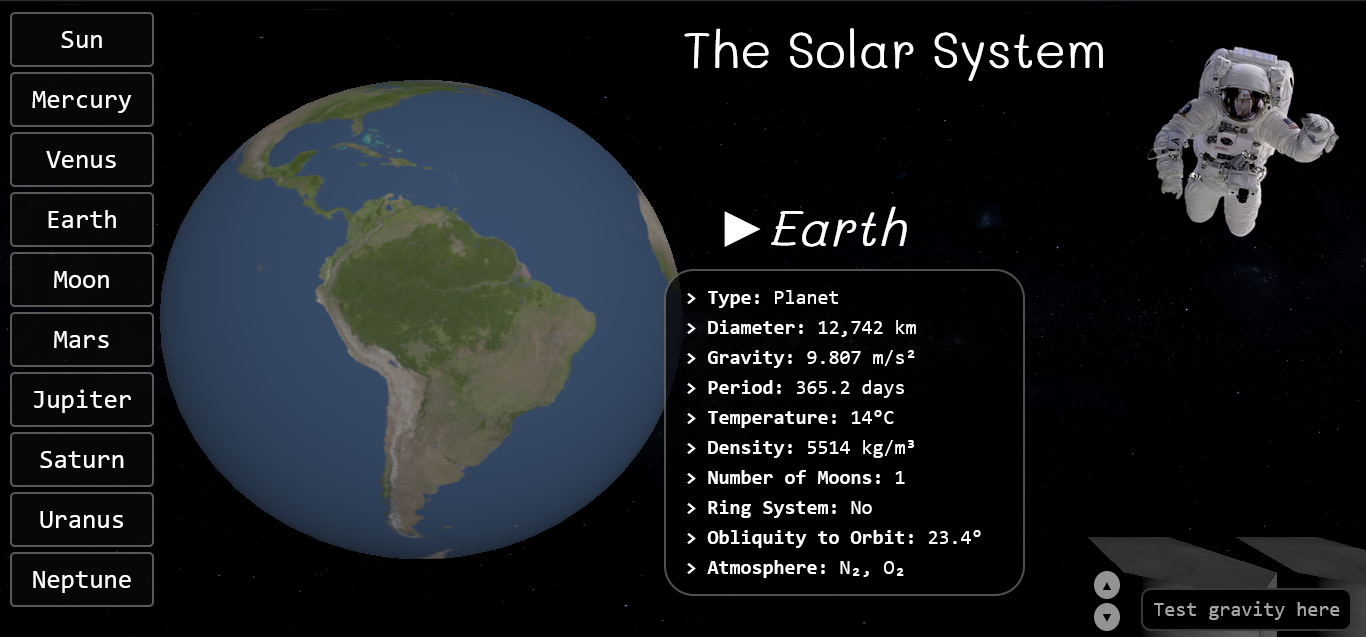
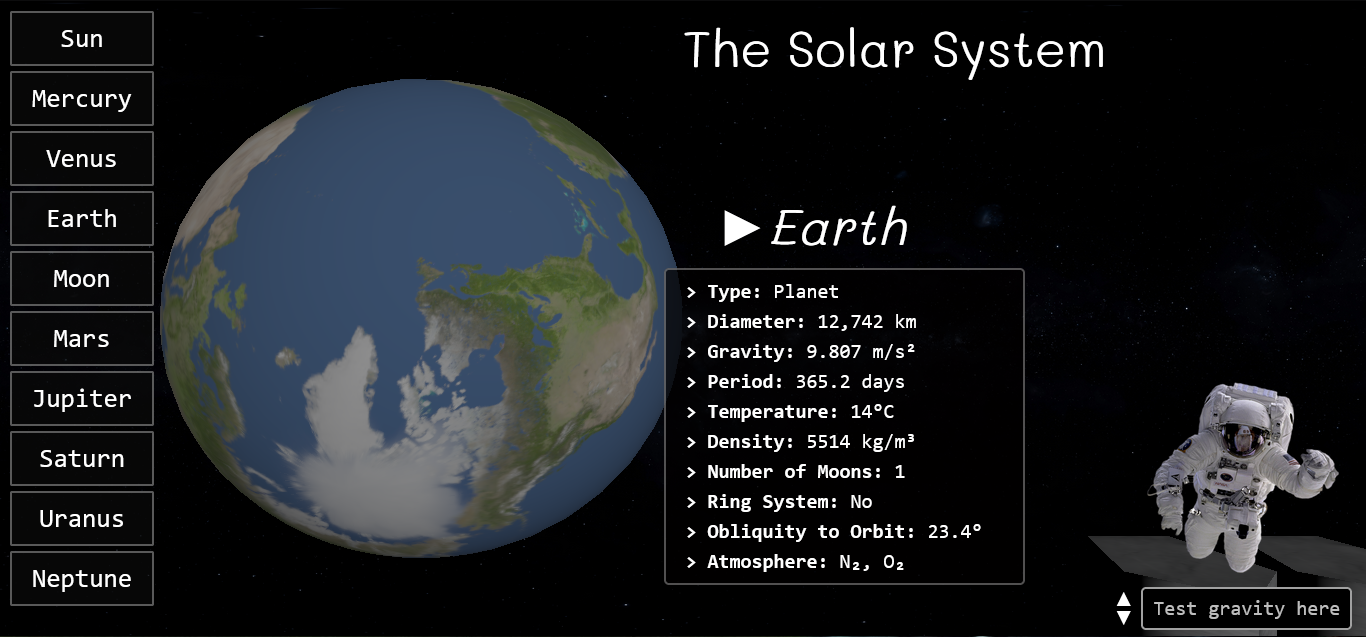
earth

diff --git a/src/style.css b/src/style.css
@@ -99,7 +99,7 @@ body {
     gap: 7px;
     font-size: 20px;
     background-color: rgba(2, 0, 0, 0.719);
-    padding: 30px 40px 30px 40px;
+    padding: 10px 40px 10px 20px;
     border: 2px rgba(255, 255, 255, 0.315) solid;
     font-family: monospace;
 }

diff --git a/README.md b/README.md
@@ -3,4 +3,4 @@ Trying out Three.js to render 3D rotating celestial objects with their correspon
 ### The magic used: 
 Vite, Typescript, Three.js, HTML/CSS, canvas
 ### A screenshot
-![Jupiter](jupiter.png)
+![Earth](earth.png)
